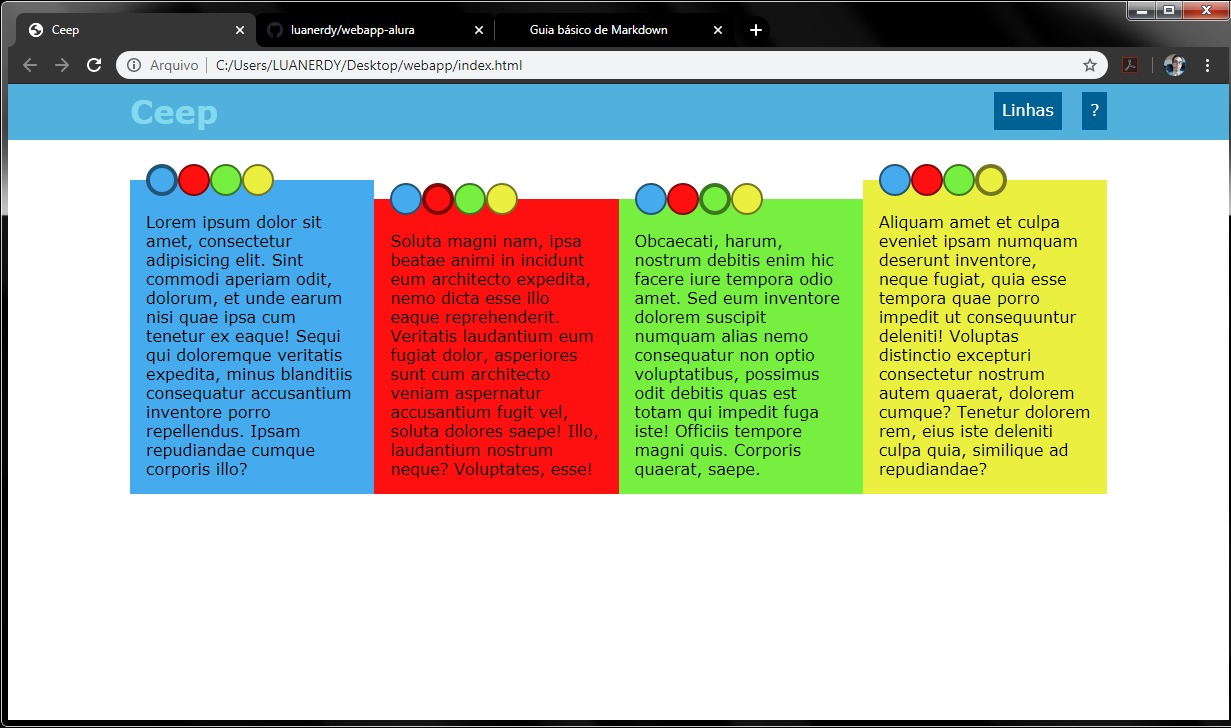
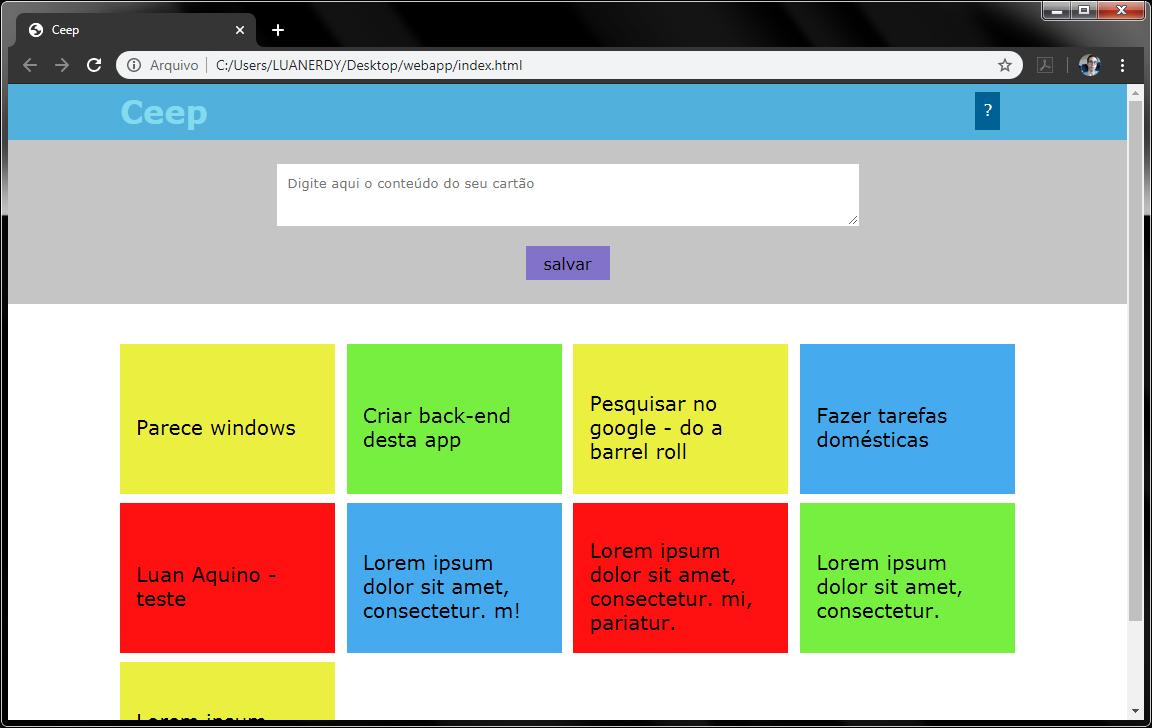
mudando README.md e outros detalhes

diff --git a/index.html b/index.html
@@ -17,11 +17,6 @@
 			<ul>
 				<li class="header-button">
 					<a href="">
-						Linhas
-					</a>
-				</li>
-				<li class="header-button">
-					<a href="">
 						?
 					</a>
 				</li>
@@ -52,7 +47,7 @@
 					--></ul>
 				</nav>
 				<p class="card-content" contenteditable="false">
-					Lorem ipsum dolor sit amet, consectetur adipisicing elit. Sint commodi aperiam odit, dolorum, et unde earum nisi quae ipsa cum tenetur ex eaque! Sequi qui doloremque veritatis expedita, minus blanditiis consequatur accusantium inventore porro repellendus. Ipsam repudiandae cumque corporis illo?
+					Lorem ipsum dolor sit amet, consectetur. m!
 				</p>
 			</li><!--a 
 		 --><li class="card" data-color="second">
@@ -71,7 +66,7 @@
 					--></ul>
 				</nav>
 				<p class="card-content" contenteditable="false">
-					Soluta magni nam, ipsa beatae animi in incidunt eum architecto expedita, nemo dicta esse illo eaque reprehenderit. Veritatis laudantium eum fugiat dolor, asperiores sunt cum architecto veniam aspernatur accusantium fugit vel, soluta dolores saepe! Illo, laudantium nostrum neque? Voluptates, esse!
+					Lorem ipsum dolor sit amet, consectetur. mi, pariatur.
 				</p>
 			</li><!--a 
 		 --><li class="card" data-color="third">
@@ -90,7 +85,7 @@
 					--></ul>
 				</nav>
 				<p class="card-content" contenteditable="false">
-					Obcaecati, harum, nostrum debitis enim hic facere iure tempora odio amet. Sed eum inventore dolorem suscipit numquam alias nemo consequatur non optio voluptatibus, possimus odit debitis quas est totam qui impedit fuga iste! Officiis tempore magni quis. Corporis quaerat, saepe.
+					Lorem ipsum dolor sit amet, consectetur. 
 				</p>
 			</li><!--a 
 		 --><li class="card" data-color="fourth">
@@ -109,7 +104,7 @@
 					--></ul>
 				</nav>
 				<p class="card-content" contenteditable="false">
-					Aliquam amet et culpa eveniet ipsam numquam deserunt inventore, neque fugiat, quia esse tempora quae porro impedit ut consequuntur deleniti! Voluptas distinctio excepturi consectetur nostrum autem quaerat, dolorem cumque? Tenetur dolorem rem, eius iste deleniti culpa quia, similique ad repudiandae?
+					Lorem ipsum dolor sit amet, consectetur. 
 				</p>
 		</li>
 		</ul>

diff --git a/css/block/card.css b/css/block/card.css
@@ -15,12 +15,19 @@
 }
 
 .card{
+	display: flex;
+	align-items: center;
+
 	box-sizing: border-box;
 
 	padding: 32px 16px 16px;
 	width: 24%;
+	min-height: 150px;
 	position: relative;
 	margin: 0 0 1%;
+
+	font-size: 20px;
+
 }
 
 .wrap-card-options{

diff --git a/README.md b/README.md
@@ -1,5 +1,4 @@
 # Curso Alura - Web App Ceep
-### A app consiste num bloco de notas virtual
-### para guardar anotações e tarefas a fazer
+### A app consiste num bloco de notas virtual para guardar anotações
 
 ![Print da App](./app.jpeg)
